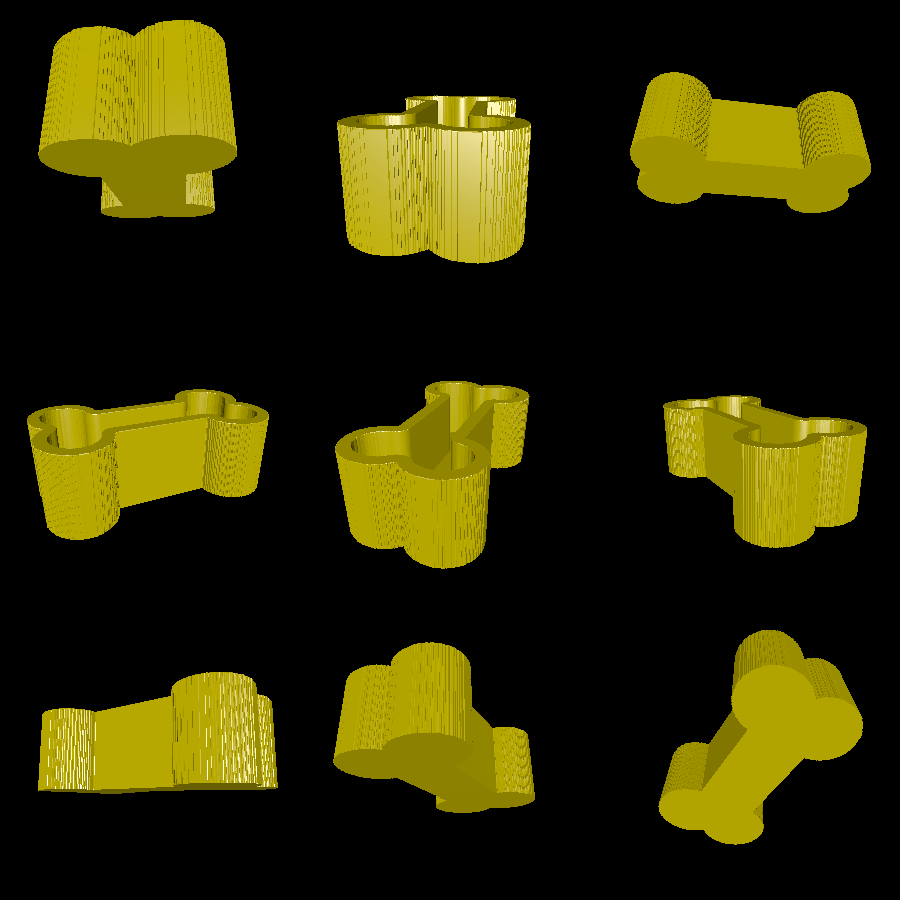
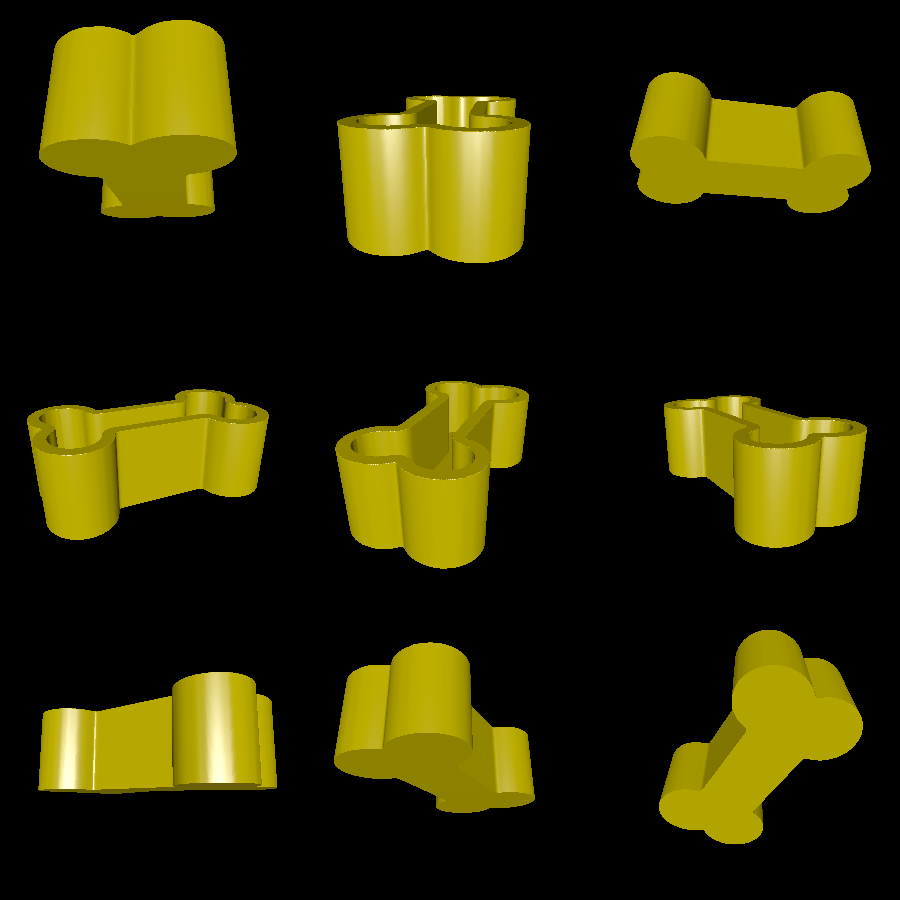
use smoothed mesh for treat box

diff --git a/examples/usable/treat_box/main.go b/examples/usable/treat_box/main.go
@@ -77,7 +77,7 @@ type BoxSolid struct {
 
 func NewBoxSolid() *BoxSolid {
 	bmp := model2d.MustReadBitmap("bone.png", nil)
-	collider := model2d.MeshToCollider(bmp.Mesh())
+	collider := model2d.MeshToCollider(bmp.Mesh().Smooth(20))
 	return &BoxSolid{Bitmap: bmp, Collider: collider}
 }
 
@@ -101,12 +101,12 @@ func (b *BoxSolid) Contains(c model3d.Coord3D) bool {
 }
 
 func (b *BoxSolid) filledContains(c model3d.Coord3D) bool {
-	if c.Min(b.Min()) != b.Min() || c.Max(b.Max()) != b.Max() {
+	if !model3d.InBounds(b, c) {
 		return false
 	}
-	x := int(float64(b.Bitmap.Width) * c.X / b.Max().X)
-	y := int(float64(b.Bitmap.Height) * c.Y / b.Max().Y)
-	return b.Bitmap.Get(x, y)
+	x := float64(b.Bitmap.Width) * c.X / b.Max().X
+	y := float64(b.Bitmap.Height) * c.Y / b.Max().Y
+	return model2d.ColliderContains(b.Collider, model2d.Coord{X: x, Y: y}, 0)
 }
 
 func (b *BoxSolid) containsInset(c model3d.Coord3D, thickness float64) bool {
